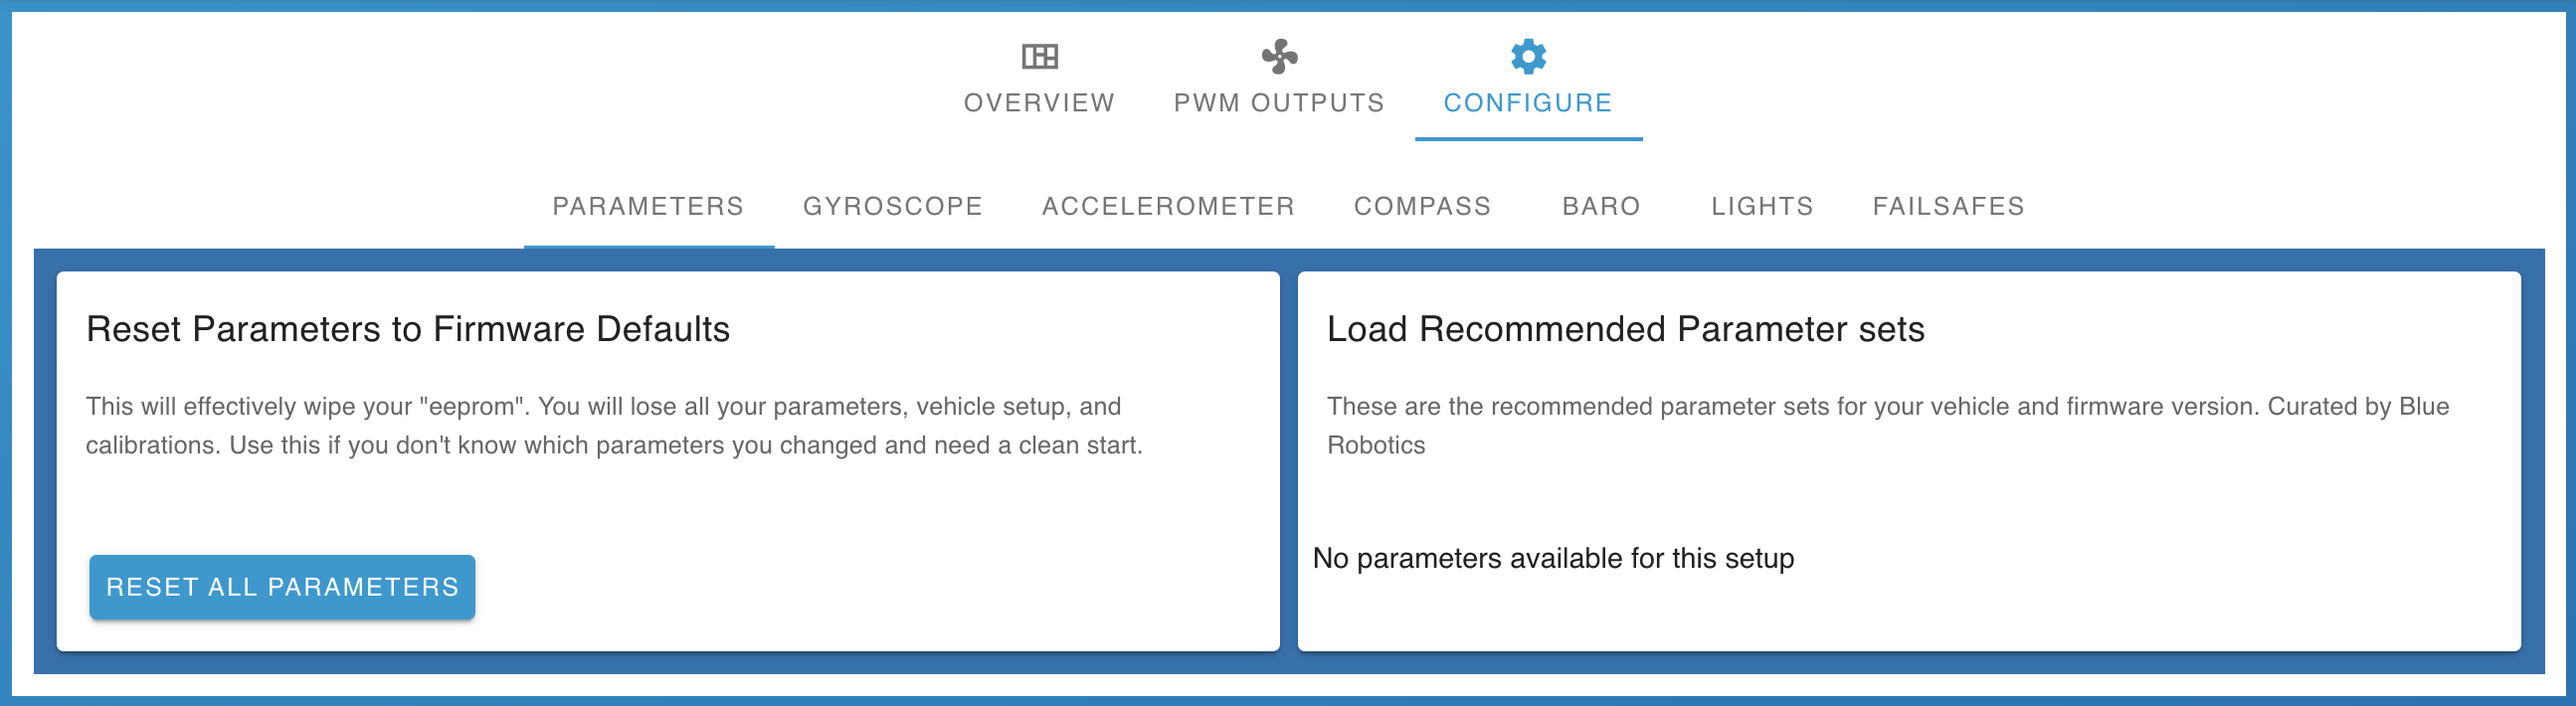
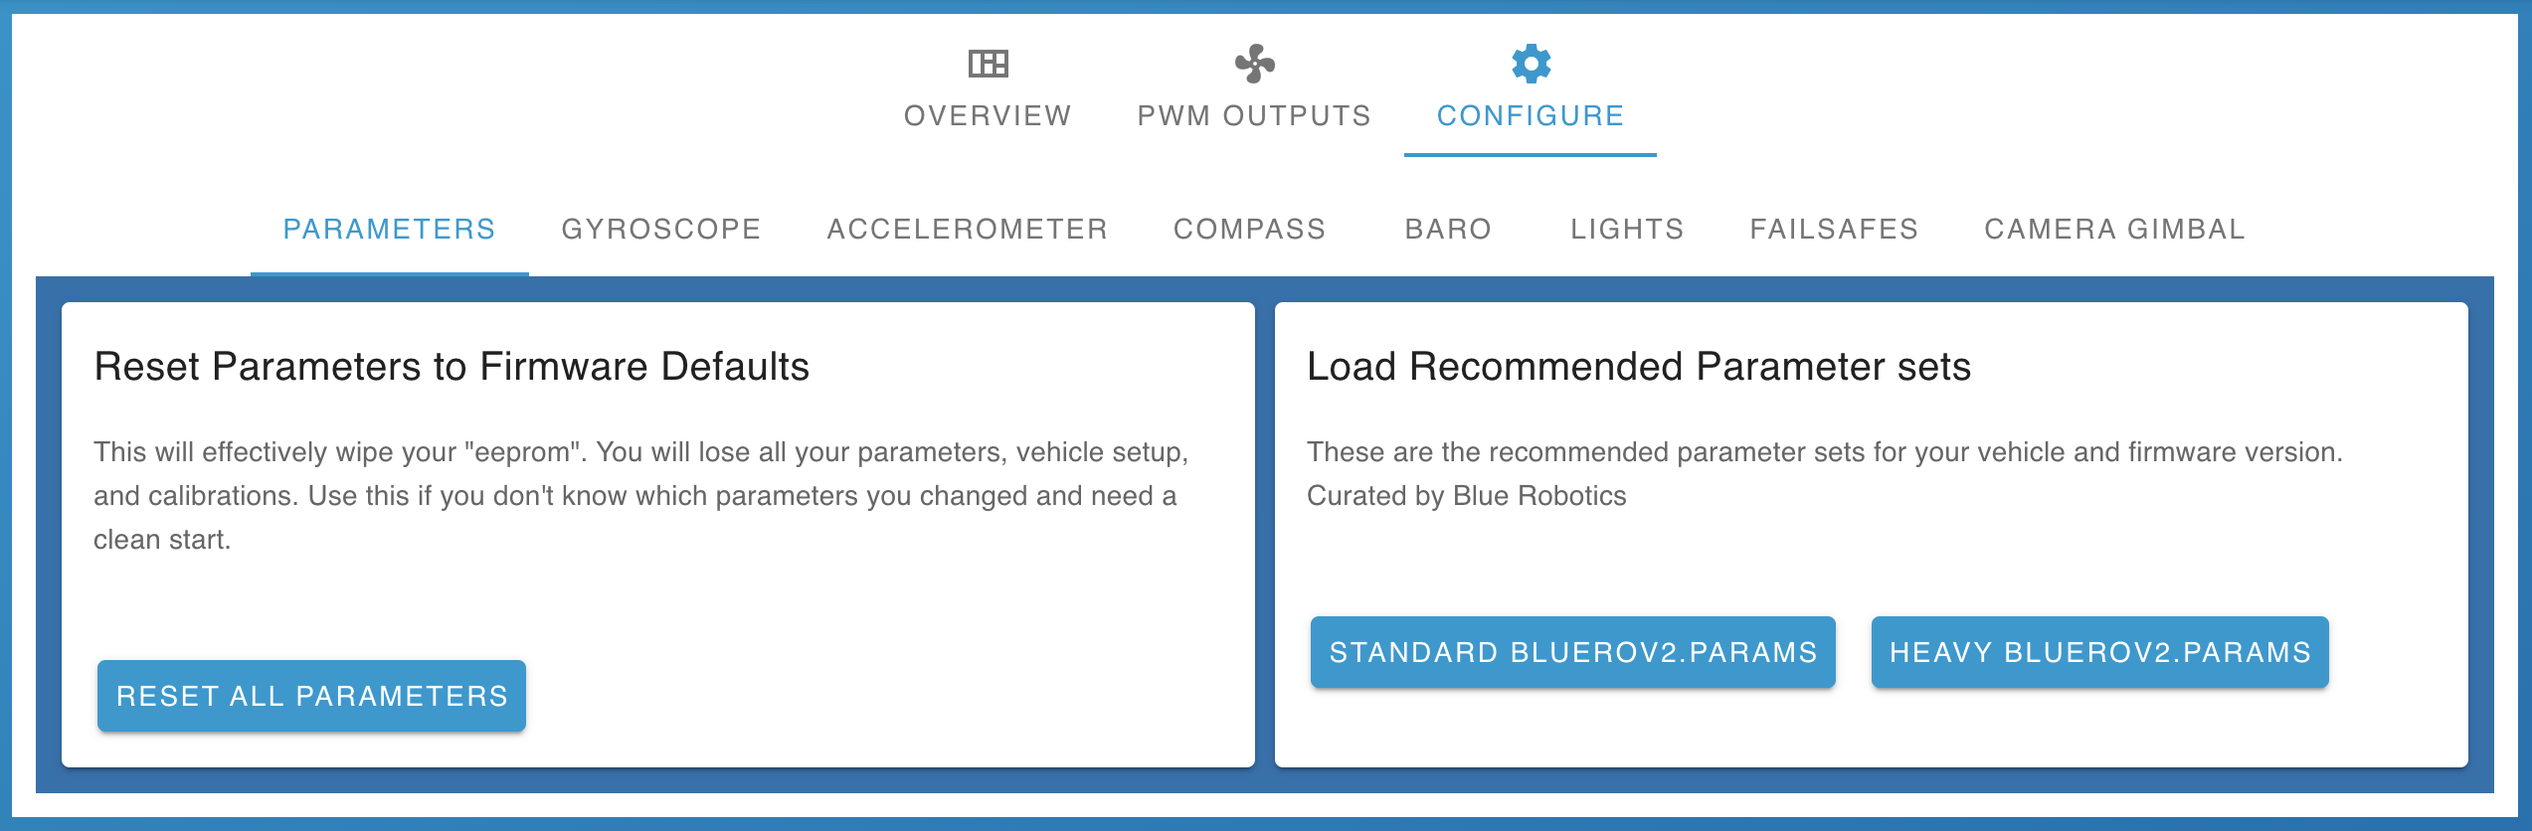
content: usage: advanced: vehicle-setup: improve Configure details

diff --git a/content/usage/advanced/index.md b/content/usage/advanced/index.md
@@ -619,6 +619,8 @@ In future this page will also allow
 - displaying device statuses from extensions
 {% end %}
 
+#### PWM Outputs
+
 The PWM Outputs tab allows configuring the servo function mappings
 (for motors, lights, camera tilt, etc), as well as manually testing the motors,
 and an automated check to detect motors that spin backwards. Relevant motors can be
@@ -634,25 +636,84 @@ and configuring its PWM limits and trim value `(New in 1.4)`:
 
 {{ easy_image(src="vehicle-setup-pwm-function", width=450) }}
 
+#### Autopilot Configuration
+`New in 1.3`
+
 The Configure tab provides configuration and calibration options for the vehicle sensors and peripherals,
 including failsafes, and reverting parameters to their defaults.
-<br>`New in 1.3`
 
+##### Parameters
+- Parameters can be reset to the default values defined and stored in the firmware
+- Full sets of recommended parameters are available for Blue Robotics vehicles
 {{ easy_image(src="vehicle-setup-configure-params", width=600) }}
 
+##### Gyroscope
+- Gyroscope calibration affects the vehicle attitude (orientation) estimates, and
+particularly the measured rotation rates
 {{ easy_image(src="vehicle-setup-configure-gyro", width=600) }}
 
+##### Accelerometer
+- [Accelerometer calibration](https://ardupilot.org/sub/docs/common-accelerometer-calibration.html)
+affects the detected gravity direction, as well as speed estimates
+   - Full calibration is a detailed calibration of all three axes, and requires rotating
+   the vehicle
+   - Quick calibration is a simplified, lower-quality calibration which only requires
+   placing the vehicle on a level surface
+      - This can be sufficient for vehicles that mostly operate in a level orientation
 {{ easy_image(src="vehicle-setup-configure-accel", width=600) }}
 
+##### Compass
+- [Compass calibration](https://ardupilot.org/sub/docs/common-compass-calibration-in-mission-planner.html) 
+affects the vehicle yaw (heading) estimate
+   - It compensates for constant magnetic effects caused by the vehicle structure, and large scale 
+   compass declination effects using a world magnetic model, but cannot compensate for local
+   [magnetic interference](https://ardupilot.org/sub/docs/common-magnetic-interference.html#common-magnetic-interference)
+      - The world magnetic model requires an estimate of the vehicle's position, and can get
+      outdated when using an old autopilot version
+         - In case there is no global positioning sensor available, an option is provided to
+         determine a rough position estimate using [GeoIP](https://en.wikipedia.org/wiki/Internet_geolocation),
+         or to specify coordinates manually
+         - A rough position estimate is saved persistently when calibrating, but may need to be changed
+         [in the autopilot parameters](https://ardupilot.org/sub/docs/parameters.html#origin-lat-backup-latitude-for-ekf-origin)
+         if the vehicle is operating in a significantly different part of the world to where it was configured
+   - Full onboard calibration is a detailed calibration which requires rotating the vehicle about
+   all three of its axes
+   - Large vehicle calibration is a simplified, lower-quality calibration which only requires
+   pointing the vehicle (true) North
+      - Results can be improved afterwards using Compass Learn
+   - Compass Learn calibrates the compasses automatically through operation of the vehicle
+      - It requires a valid global position estimate, and a period of driving the vehicle around
+   - Log-based calibration analyses a log from a previous flight, and usually provides the best results
+      - It is not currently available through the Vehicle Setup page, but can be accessed via the Mag Fit
+      tool in the [Log Browser](#log-browser) (when replaying a log), and the resulting values can be
+      copied across to the autopilot parameters
+- Available compasses can be disabled or reordered, and flagged as internal or external to the flight
+controller board
 {{ easy_image(src="vehicle-setup-configure-compass", width=600) }}
 
+##### Barometer
+- Barometer calibration sets the reference pressure for altitude/depth measurements, and the
+internal pressure for vehicles with enclosed electronics
+   - It should generally be performed at the start of each dive/flight
 {{ easy_image(src="vehicle-setup-configure-baro", width=600) }}
 
+##### Lights
+- ROV lights configuration allows specifying the output pins for two sets of PWM-controlled
+lights, and the number of steps the control is split into
 {{ easy_image(src="vehicle-setup-configure-lights", width=600) }}
 
+##### Failsafes
+- Failsafe configuration exposes important autopilot failsafe features through an intuitive interface
+- Failsafes should be set up as part of responsible operation, and can provide early warnings of
+problems, and trigger automated safe behaviours if a critical issue occurs
 {{ easy_image(src="vehicle-setup-configure-failsafes", width=600) }}
 
+##### Camera Gimbal
 `New in 1.4`
+- Pitch control for the camera gimbal requires specifying the PWM limits of the gimbal servo
+motor, and their relationship with its tilt angle range
+- Auto-stabilization allows the camera to maintain its current pitch angle (relative to Earth),
+by compensating for pitch rotations of the vehicle
 {{ easy_image(src="vehicle-setup-configure-gimbal", width=600) }}
 
 ### Video Streams
